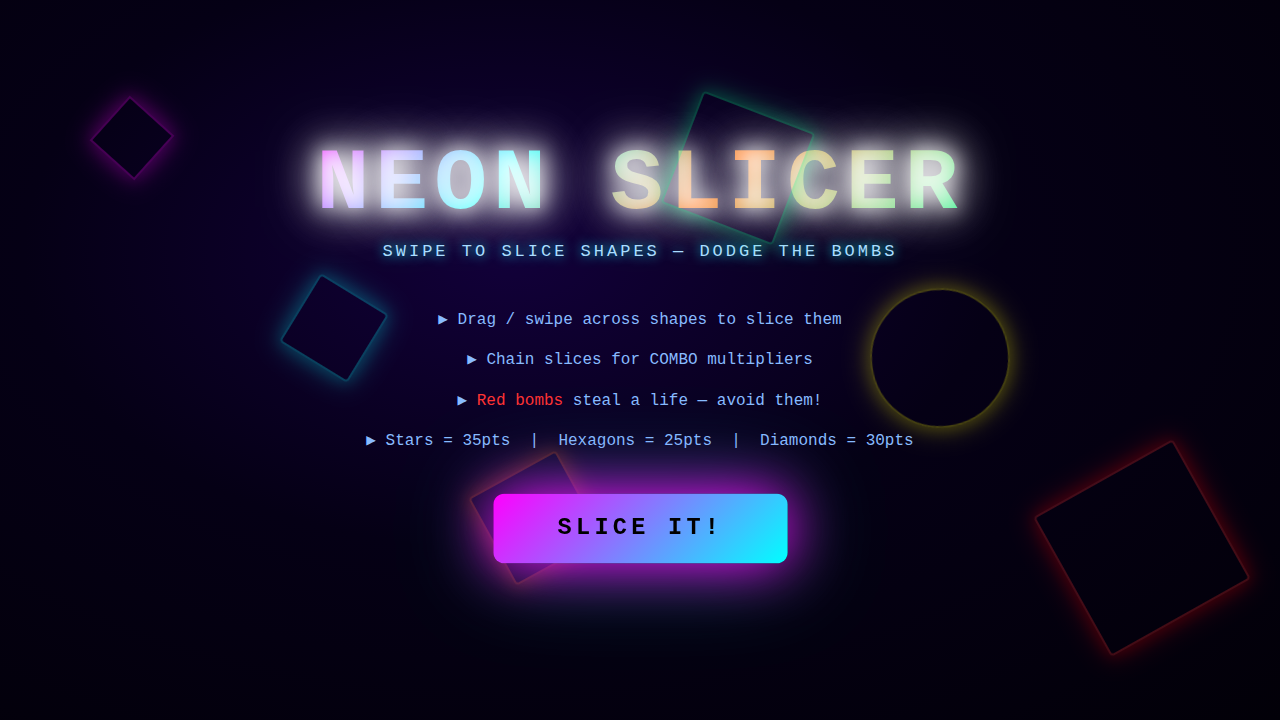
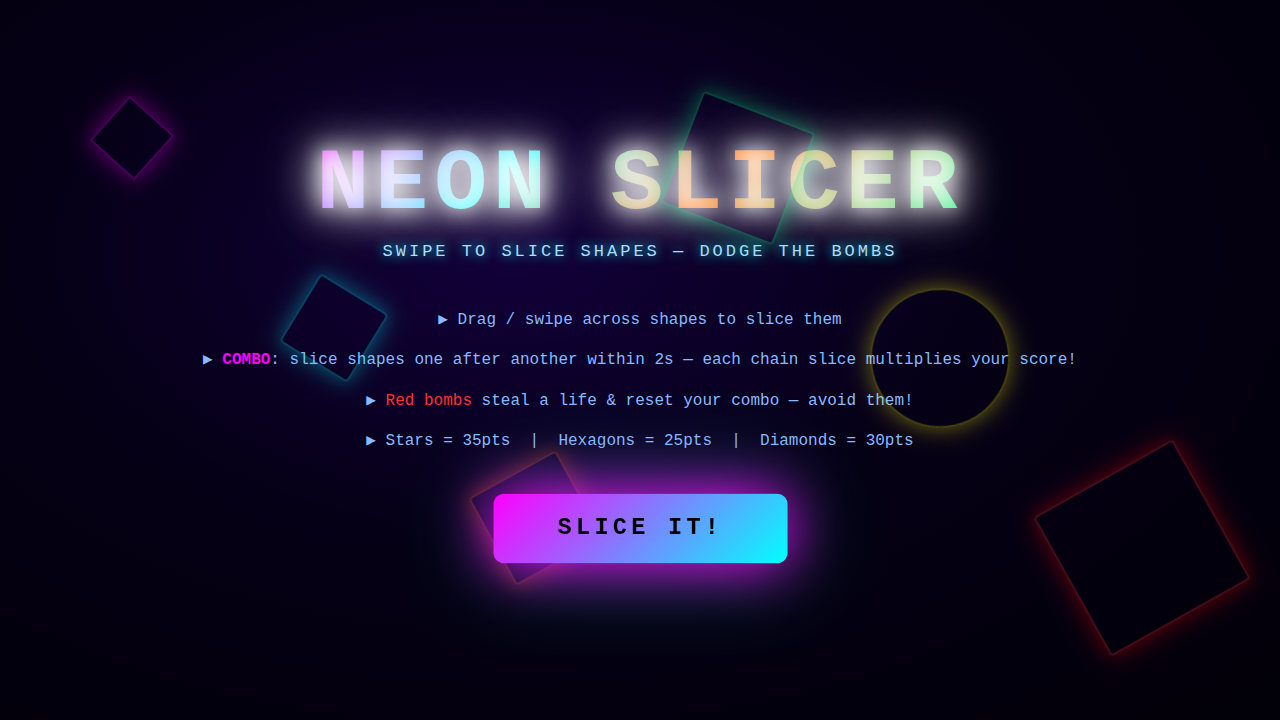
fix: mobile keyboard support for Word Blitz + Neon Slicer polish
Word Blitz:
- Add hidden <input> element that auto-focuses on game start so mobile
  virtual keyboards appear when tapping the game area
- Forward mobile input events as synthetic keydown events so the
  existing keyboard handler works without duplication
- Change placeholder text to "TAP HERE TO TYPE..." to guide mobile players
- Make entire game container and typing display clickable to re-focus input

Neon Slicer:
- Add EDGE_MARGIN=80px buffer so shapes spawning from the bottom never
  appear within 80px of the left/right screen edges (previously used
  radius only, ~28-50px — not enough on narrow phones)
- Increase minimum horizontal velocity for side-spawned shapes (0.7x
  instead of 0.5x) so they arc visibly into the center rather than
  hugging the edge of the screen
- Rewrite COMBO instruction: "slice shapes one after another within 2s —
  each chain slice multiplies your score!" instead of vague "chain slices
  for COMBO multipliers"
- Add in-game contextual tip "KEEP SLICING WITHIN 2s TO GROW YOUR COMBO!"
  shown when the player first earns a combo (combo 2–3)
- Regenerate preview.png to reflect updated instruction text

Changed region(s): [[0.1562, 0.4889, 0.8438, 0.5194], [0.2812, 0.55, 0.7188, 0.5806]]

diff --git a/games/2026-02-17/index.html b/games/2026-02-17/index.html
@@ -243,6 +243,7 @@
       const typedRef = useRef('');
       const activeWordIdRef = useRef(null);
       const phaseRef = useRef('menu');
+      const hiddenInputRef = useRef(null);
 
       // Keep refs in sync
       wordsRef.current = words;
@@ -522,12 +523,37 @@
         return () => window.removeEventListener('keydown', handleKey);
       }, [phase, addParticles, addPopup, maxCombo]);
 
+      // Mobile input handler — dispatches synthetic keydown events so the
+      // existing keyboard handler picks them up without duplicating logic.
+      const handleMobileInput = useCallback((e) => {
+        const inputType = e.nativeEvent?.inputType;
+        if (inputType === 'deleteContentBackward') {
+          window.dispatchEvent(new KeyboardEvent('keydown', { key: 'Backspace', bubbles: true }));
+          e.target.value = '';
+          return;
+        }
+        const data = e.nativeEvent?.data || e.target.value;
+        if (data) {
+          for (const char of data) {
+            if (/[a-zA-Z]/.test(char)) {
+              window.dispatchEvent(new KeyboardEvent('keydown', { key: char, bubbles: true }));
+            }
+          }
+        }
+        e.target.value = '';
+      }, []);
+
+      const focusHiddenInput = useCallback(() => {
+        if (hiddenInputRef.current) hiddenInputRef.current.focus();
+      }, []);
+
       const startGame = () => {
         if (!audioCtxRef.current) {
           audioCtxRef.current = createAudioCtx();
         }
         setPhase('playing');
         phaseRef.current = 'playing';
+        setTimeout(() => { if (hiddenInputRef.current) hiddenInputRef.current.focus(); }, 100);
         setScore(0);
         scoreRef.current = 0;
         setCombo(0);
@@ -763,7 +789,9 @@
           background: bgGradient,
           overflow: 'hidden', position: 'relative',
           transition: 'background 0.5s ease',
-        }}>
+        }}
+        onClick={focusHiddenInput}
+        >
           {/* Particles & Popups */}
           <ParticleLayer particles={particles} />
           <ScorePopup popups={popups} />
@@ -835,20 +863,48 @@
             transition: 'opacity 0.3s',
           }} />
 
+          {/* Hidden input to trigger mobile keyboard */}
+          <input
+            ref={hiddenInputRef}
+            type="text"
+            autoComplete="off"
+            autoCorrect="off"
+            autoCapitalize="off"
+            spellCheck={false}
+            inputMode="text"
+            onInput={handleMobileInput}
+            style={{
+              position: 'fixed',
+              bottom: '20px', left: '50%',
+              width: '1px', height: '1px',
+              opacity: 0.01,
+              border: 'none', outline: 'none',
+              background: 'transparent',
+              color: 'transparent',
+              caretColor: 'transparent',
+              zIndex: 49,
+              pointerEvents: 'none',
+            }}
+          />
+
           {/* Typing input display */}
-          <div style={{
-            position: 'fixed', bottom: '20px', left: '50%', transform: 'translateX(-50%)',
-            background: 'rgba(0,0,0,0.7)',
-            border: `2px solid ${activeWordId ? (words.find(w=>w.id===activeWordId)?.color || '#00ffff') : 'rgba(255,255,255,0.3)'}`,
-            borderRadius: '8px',
-            padding: '10px 24px',
-            minWidth: '200px', maxWidth: '400px',
-            textAlign: 'center',
-            zIndex: 50,
-            backdropFilter: 'blur(8px)',
-            boxShadow: activeWordId ? `0 0 20px ${words.find(w=>w.id===activeWordId)?.color || '#00ffff'}` : 'none',
-            transition: 'border-color 0.2s, box-shadow 0.2s',
-          }}>
+          <div
+            onClick={focusHiddenInput}
+            style={{
+              position: 'fixed', bottom: '20px', left: '50%', transform: 'translateX(-50%)',
+              background: 'rgba(0,0,0,0.7)',
+              border: `2px solid ${activeWordId ? (words.find(w=>w.id===activeWordId)?.color || '#00ffff') : 'rgba(255,255,255,0.3)'}`,
+              borderRadius: '8px',
+              padding: '10px 24px',
+              minWidth: '200px', maxWidth: '400px',
+              textAlign: 'center',
+              zIndex: 50,
+              backdropFilter: 'blur(8px)',
+              boxShadow: activeWordId ? `0 0 20px ${words.find(w=>w.id===activeWordId)?.color || '#00ffff'}` : 'none',
+              transition: 'border-color 0.2s, box-shadow 0.2s',
+              cursor: 'text',
+              WebkitTapHighlightColor: 'transparent',
+            }}>
             {typedInput ? (
               <span style={{
                 fontSize: '22px',
@@ -860,7 +916,7 @@
               }}>{typedInput}</span>
             ) : (
               <span style={{ color: 'rgba(255,255,255,0.3)', fontSize: '16px', letterSpacing: '2px' }}>
-                TYPE A WORD...
+                TAP HERE TO TYPE...
               </span>
             )}
             <span style={{

diff --git a/games/2026-02-18/index.html b/games/2026-02-18/index.html
@@ -393,6 +393,8 @@
         const W = window.innerWidth;
         const H = window.innerHeight;
         const radius = 28 + Math.random() * 22;
+        // Keep shapes away from screen edges so they're always reachable
+        const EDGE_MARGIN = 80;
 
         // Launch from bottom, sides, with upward trajectory
         const spawnSide = Math.random();
@@ -400,23 +402,24 @@
         const speed = cfg.speedMin + Math.random() * (cfg.speedMax - cfg.speedMin);
 
         if (spawnSide < 0.6) {
-          // From bottom
-          x = radius + Math.random() * (W - 2 * radius);
+          // From bottom — keep away from left/right edges
+          x = EDGE_MARGIN + Math.random() * (W - 2 * EDGE_MARGIN);
           y = H + radius;
           const angle = -(Math.PI / 4 + Math.random() * Math.PI / 2); // upward
           vx = speed * Math.cos(angle + Math.PI / 2) * (Math.random() > 0.5 ? 1 : -1) * 0.5;
           vy = -(speed * 0.8 + Math.random() * speed * 0.5);
         } else if (spawnSide < 0.8) {
-          // From left
+          // From left — push trajectory inward so shape arcs into center
           x = -radius;
-          y = H * 0.2 + Math.random() * H * 0.5;
-          vx = speed * (0.5 + Math.random() * 0.5);
+          y = H * 0.25 + Math.random() * H * 0.45;
+          // Minimum vx ensures the shape travels well into the play area
+          vx = speed * (0.7 + Math.random() * 0.4);
           vy = -(speed * 0.3 + Math.random() * speed * 0.4);
         } else {
-          // From right
+          // From right — mirror of left
           x = W + radius;
-          y = H * 0.2 + Math.random() * H * 0.5;
-          vx = -speed * (0.5 + Math.random() * 0.5);
+          y = H * 0.25 + Math.random() * H * 0.45;
+          vx = -speed * (0.7 + Math.random() * 0.4);
           vy = -(speed * 0.3 + Math.random() * speed * 0.4);
         }
 
@@ -784,8 +787,8 @@
               color: '#88bbff', fontSize: 'clamp(13px, 2vw, 16px)', lineHeight: '1.9',
             }}>
               <div>&#9654; Drag / swipe across shapes to slice them</div>
-              <div>&#9654; Chain slices for COMBO multipliers</div>
-              <div>&#9654; <span style={{color: '#ff3333'}}>Red bombs</span> steal a life — avoid them!</div>
+              <div>&#9654; <span style={{color: '#ff00ff', fontWeight: 'bold'}}>COMBO</span>: slice shapes one after another within 2s — each chain slice multiplies your score!</div>
+              <div>&#9654; <span style={{color: '#ff3333'}}>Red bombs</span> steal a life &amp; reset your combo — avoid them!</div>
               <div>&#9654; Stars = 35pts &nbsp;|&nbsp; Hexagons = 25pts &nbsp;|&nbsp; Diamonds = 30pts</div>
             </div>
 
@@ -1029,6 +1032,18 @@
               animation: 'pulse 1.5s ease-in-out infinite',
               textAlign: 'center',
             }}>SWIPE TO SLICE!</div>
+          )}
+
+          {/* Combo tip — shown when player first earns a combo */}
+          {combo >= 2 && combo <= 3 && (
+            <div style={{
+              position: 'fixed', bottom: '30px', left: '50%',
+              transform: 'translateX(-50%)',
+              color: 'rgba(255, 0, 255, 0.6)',
+              fontSize: '13px', fontFamily: 'Courier New, monospace',
+              letterSpacing: '2px', pointerEvents: 'none',
+              textAlign: 'center',
+            }}>KEEP SLICING WITHIN 2s TO GROW YOUR COMBO!</div>
           )}
         </div>
       );
